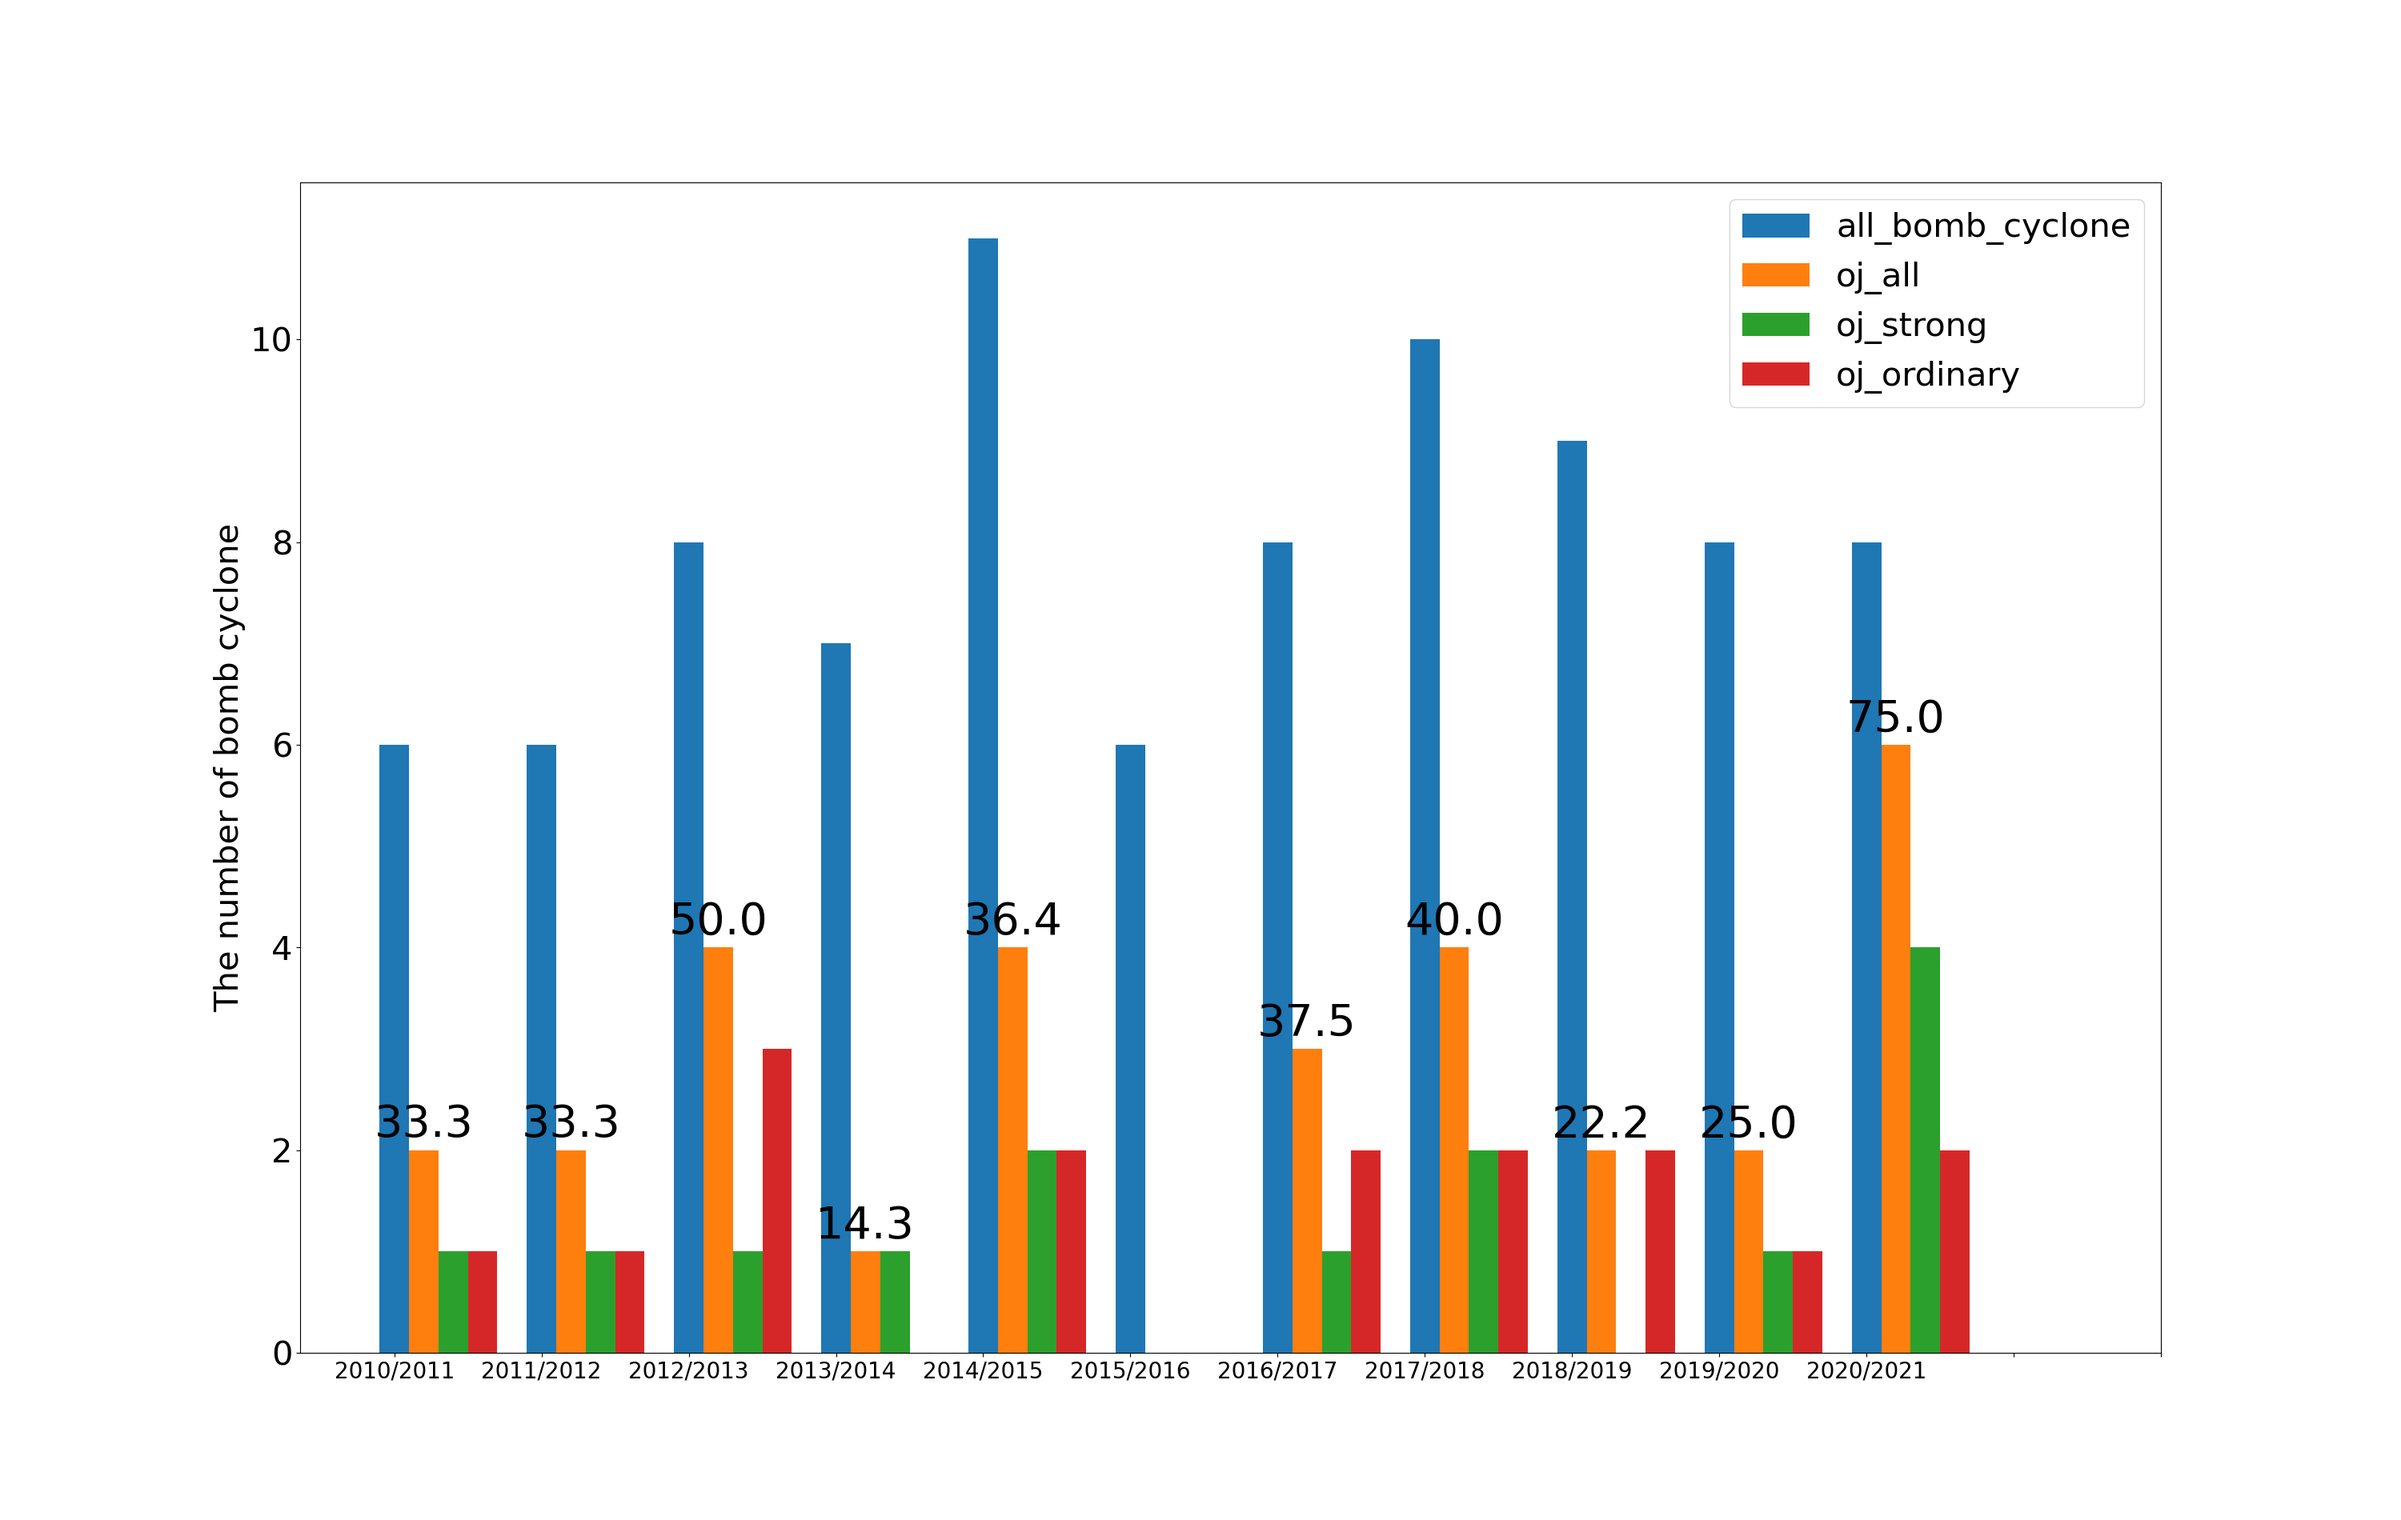
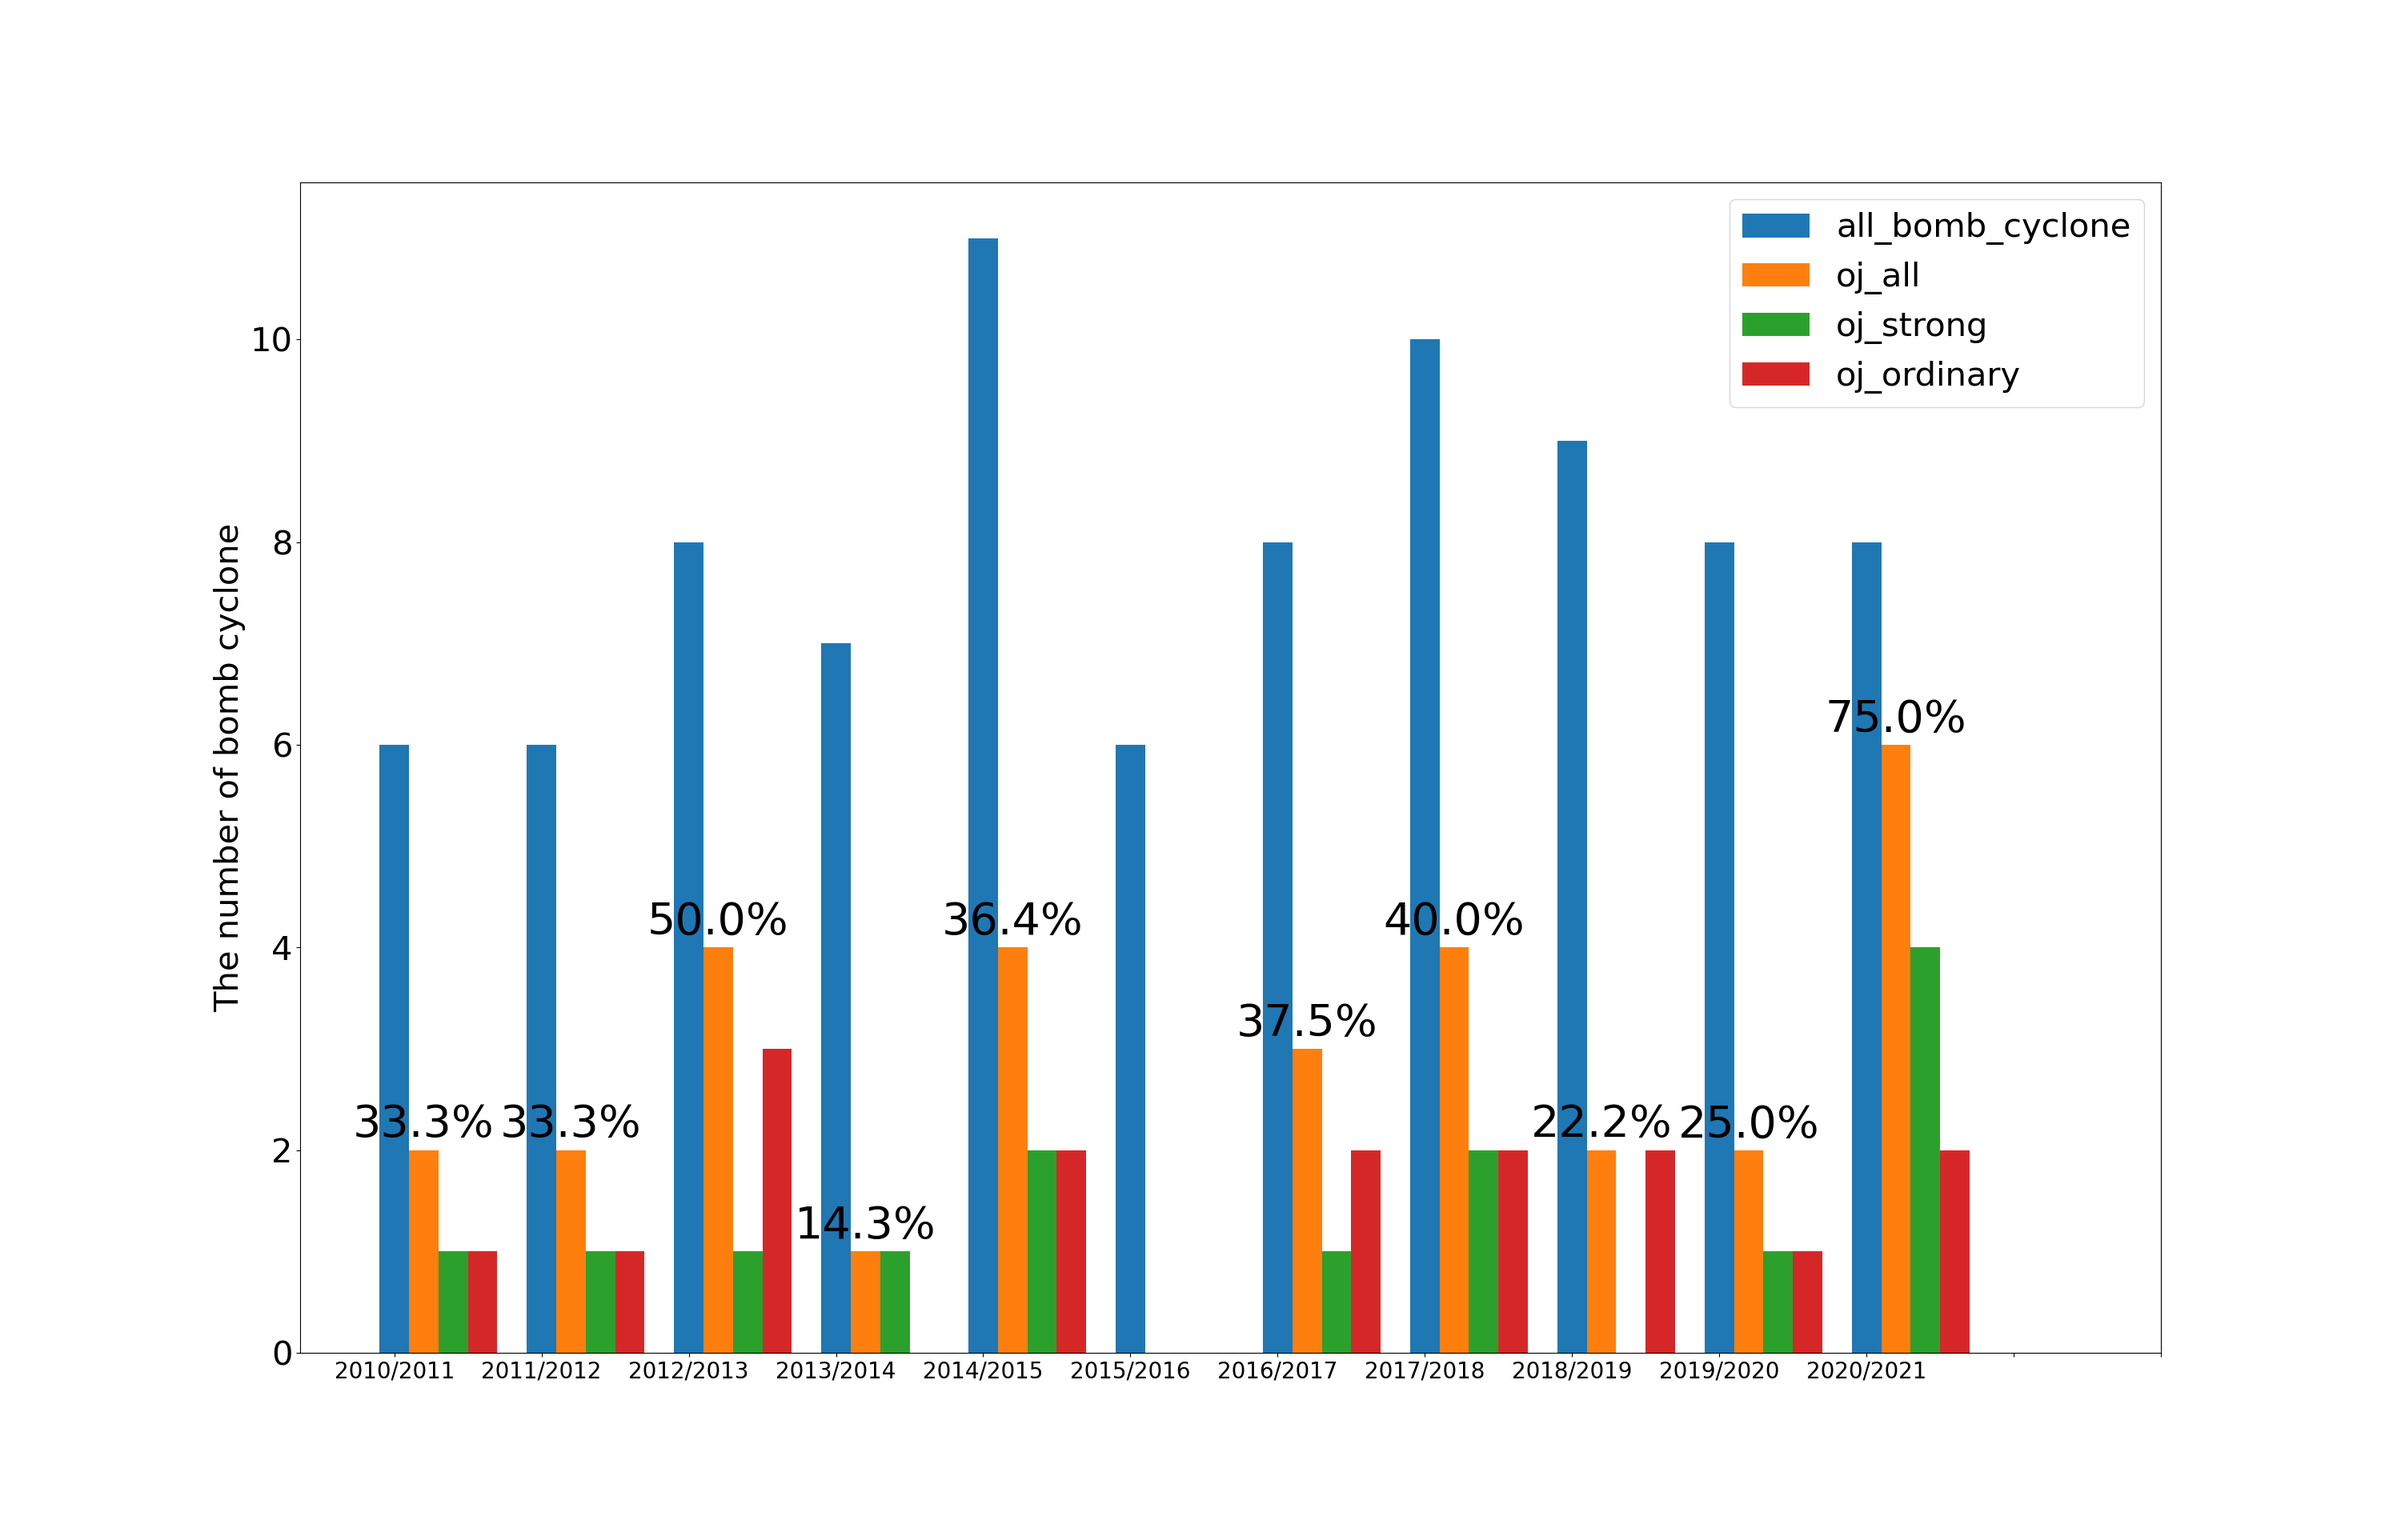
add %

diff --git a/mk_bombcyclone_number_12_1_bar.py b/mk_bombcyclone_number_12_1_bar.py
@@ -69,7 +69,7 @@ def add_label(graph, oj_ratio):
         plt.rcParams["font.size"] = 40
         if oj_ratio[i] == 0:
             continue
-        plt.annotate('{:.1f}'.format(oj_ratio[i]),
+        plt.annotate('{:.1f}%'.format(oj_ratio[i]),
                     xy=(rect.get_x() + rect.get_width() / 2, height), # label location settings(x, y)
                     xytext=(0, 3), # distance of bar
                     textcoords="offset points",
